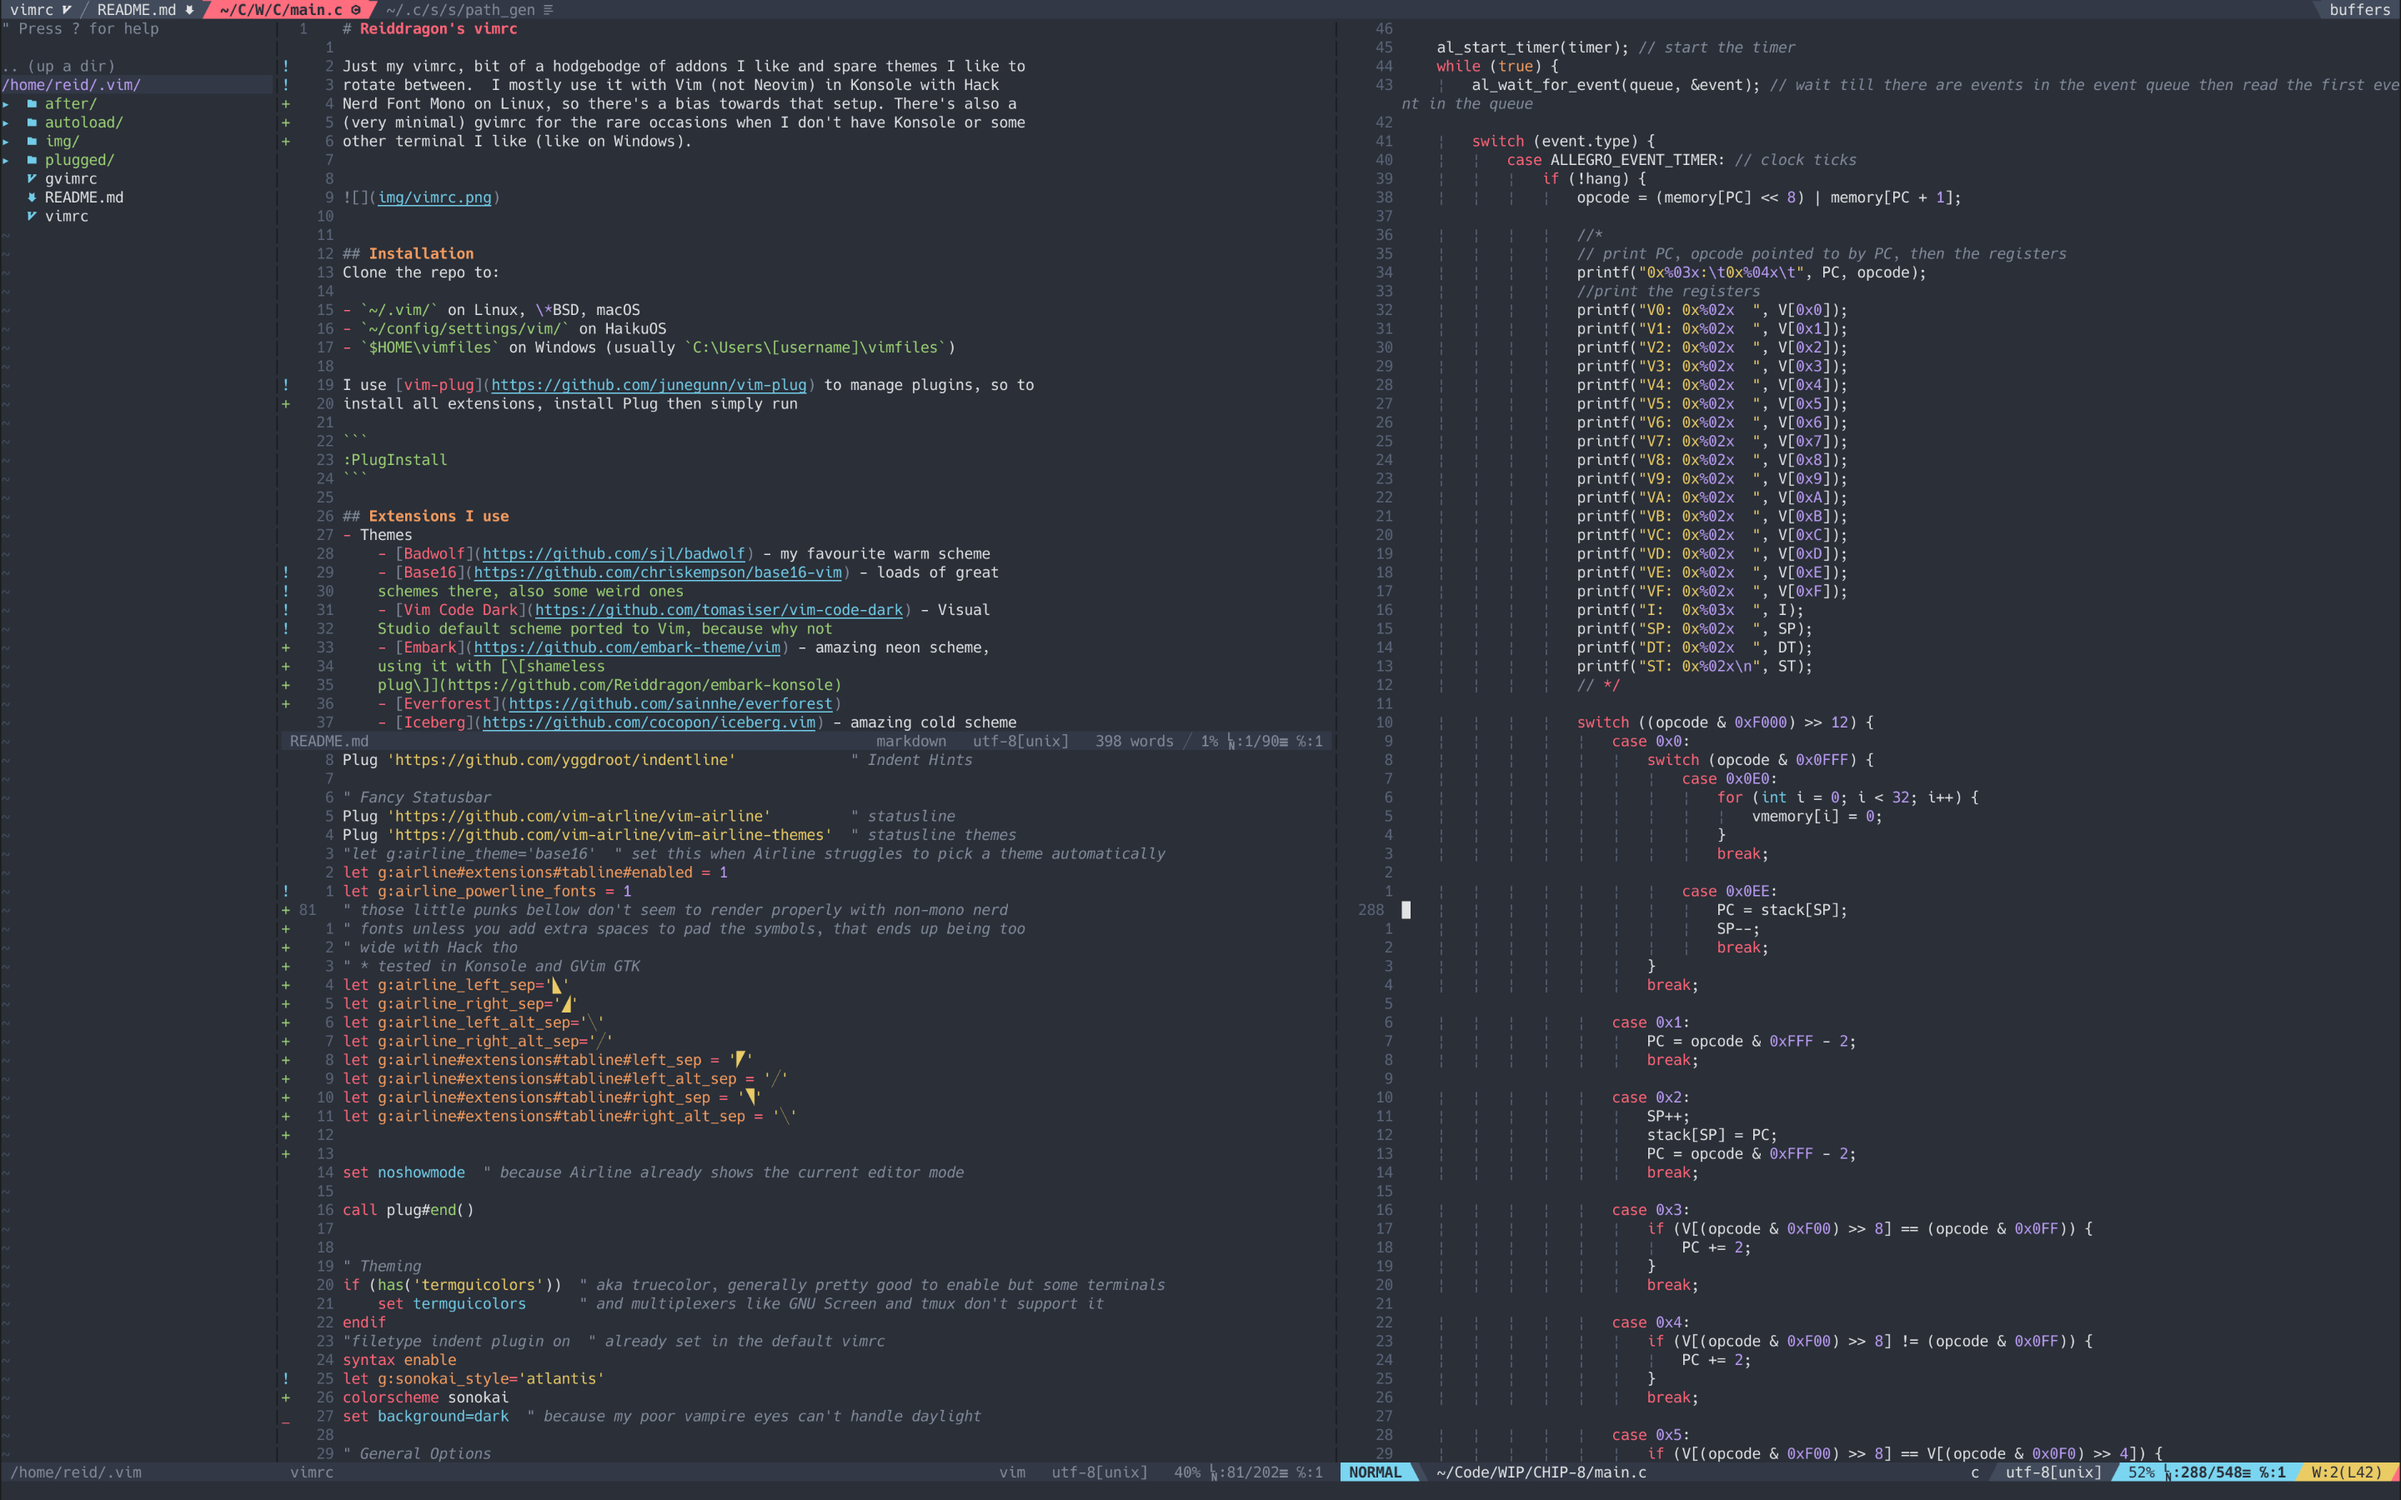
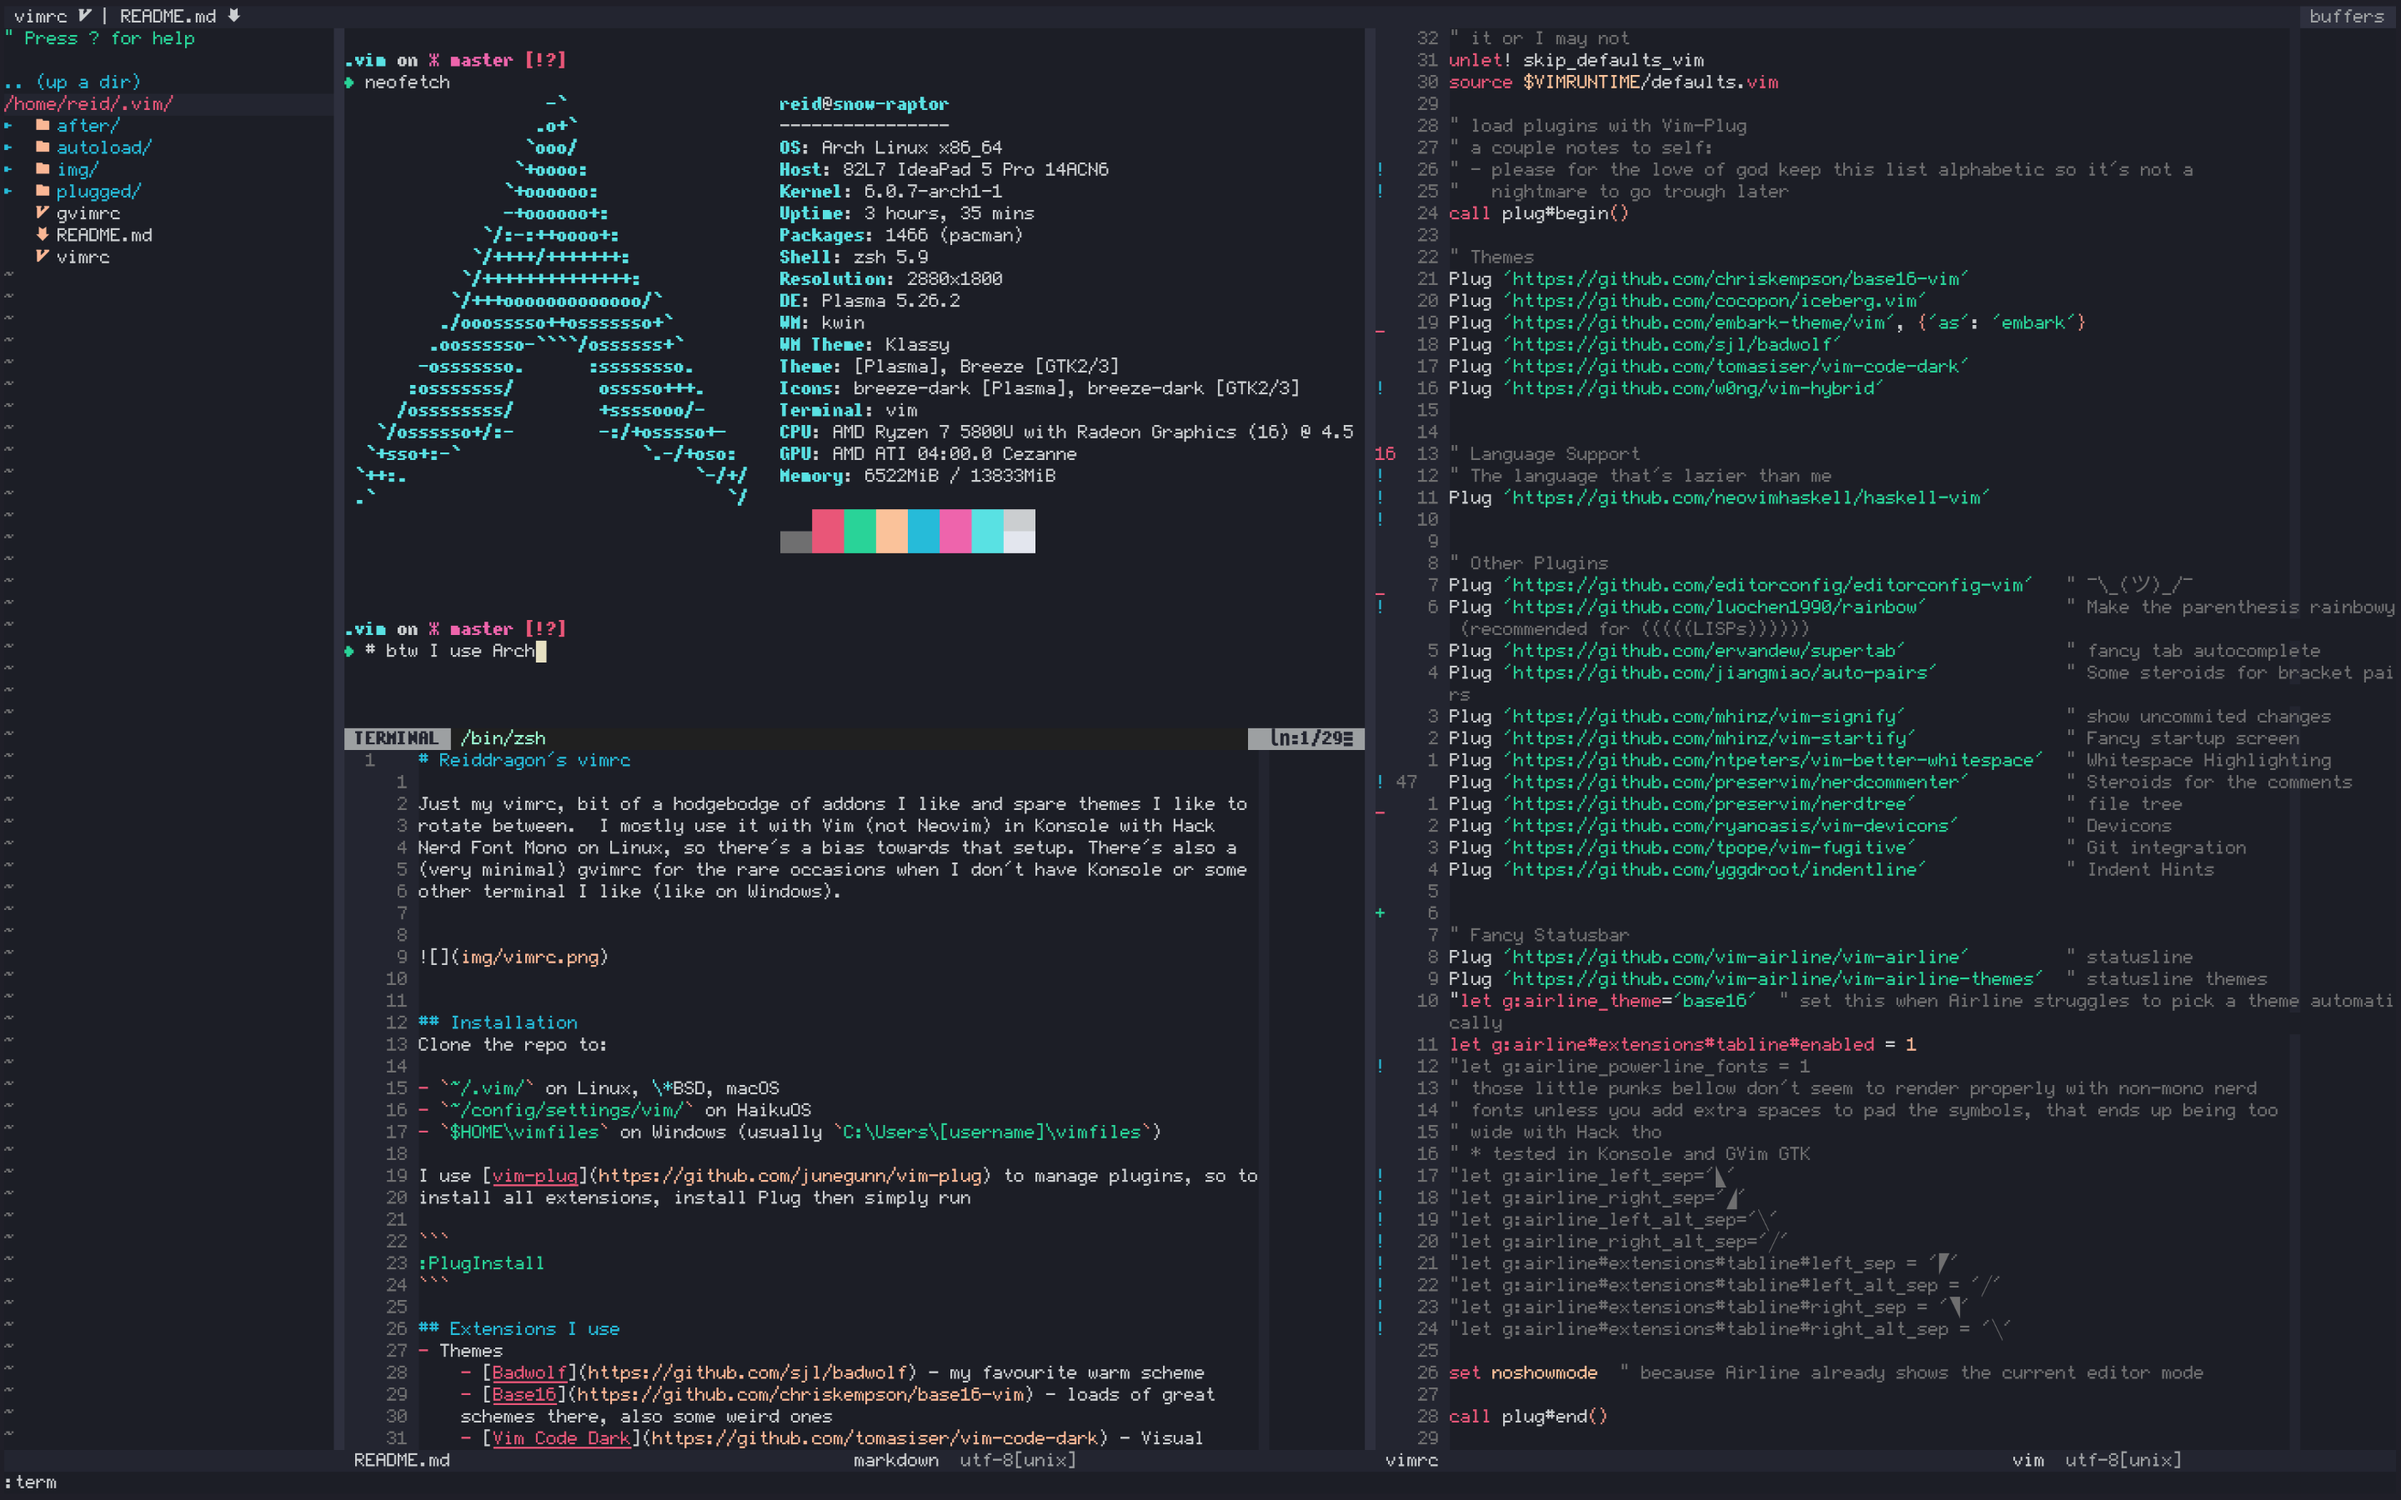
Removed some unused plugins, changed some settings

diff --git a/README.md b/README.md
@@ -1,10 +1,8 @@
 # Reiddragon's vimrc
 
-Just my vimrc, bit of a hodgebodge of addons I like and spare themes I like to
-rotate between.  I mostly use it with Vim (not Neovim) in Konsole with Hack
-Nerd Font Mono on Linux, so there's a bias towards that setup. There's also a
-(very minimal) gvimrc for the rare occasions when I don't have Konsole or some
-other terminal I like (like on Windows).  
+Just my vimrc, bunch of addons I find useful, and some themes I like to rotate
+between. I mostly use it with Vim (not Neovim) in Kitty or GVim, with Hack Nerd
+Font Mono or Fairfax SM, on Linux, so there's a bias towards that setup.
 
 
 ![](img/vimrc.png)
@@ -34,27 +32,18 @@ install all extensions, install Plug then simply run
     - [Embark](https://github.com/embark-theme/vim) - amazing neon scheme,
     using it with [\[shameless
     plug\]](https://github.com/Reiddragon/embark-konsole)
-    - [Everforest](https://github.com/sainnhe/everforest)
+    - [Hybrid](https://github.com/w0ng/vim-hybrid) - like Tomorrow Night, but
+    different
     - [Iceberg](https://github.com/cocopon/iceberg.vim) - amazing cold scheme
-    - [Rainglow](https://github.com/rainglow/vim) - theme collection with some
-    interesting picks
 
 - Language Support Plugins
-    - [OmniSharp](https://github.com/OmniSharp/Omnisharp-vim) and
-    [SharpenUp](https://github.com/nickspoons/vim-sharpenup) - support for
-    dotnet languages
+    - [Haskell-Vim](https://github.com/neovimhaskell/haskell-vim) - improved
+    Haskell support
 
 - Other Plugins
     - [Airline](https://github.com/vim-airline/vim-airline) and [Airline
     Themes](https://github.com/vim-airline/vim-airline-themes) - fancy
     statusline
-    - [Asynchronous Lint Engine](https://github.com/dense-analysis/ale)
-    - [vim-lsp](https://github.com/prabirshrestha/vim-lsp)
-    - [vim-lsp-ale](https://github.com/rhysd/vim-lsp-ale) - to make sure
-    vim-lsp and ALE use the same language servers instead of each starting its
-    own
-    - [vim-lsp-settings](https://github.com/mattn/vim-lsp-settings) - mostly
-    using it to manage language servers
     - [Auto Pairs](https://github.com/jiangmiao/auto-pairs) - steroids for
     bracket pairs
     - [Better Whitespace](https://github.com/ntpeters/vim-better-whitespace) -
@@ -76,13 +65,7 @@ install all extensions, install Plug then simply run
     - [Signify](https://github.com/mhinz/vim-signify) - adds indicators for
     changes since the last git commit
     - [Startify](https://github.com/mhinz/vim-startify) - fancy Vim start page
-    - [Vimspector](https://github.com/puremourning/vimspector) - mostly using
-    this for the OmniSharp Debugger in case I ever need it
 
-
-### "Why in the name of Emacs are you using both ALE and vim-lsp?!?"
-They each have features that I use and that the other doesn't have, and since
-the bridge exists, why not?
 
 
 
